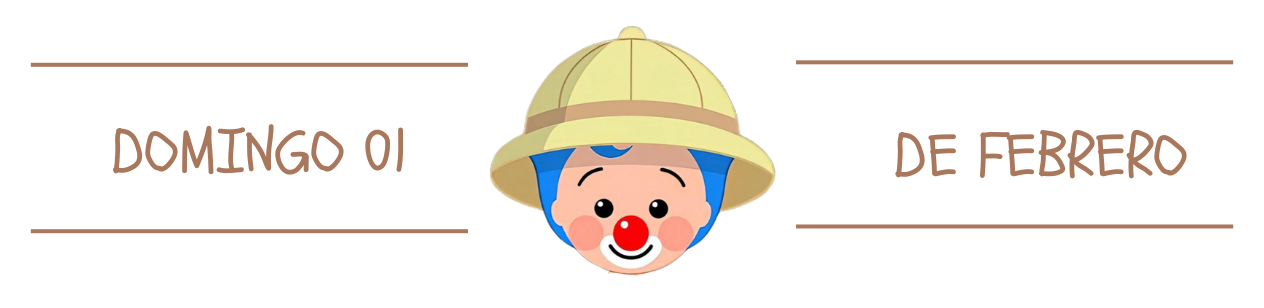
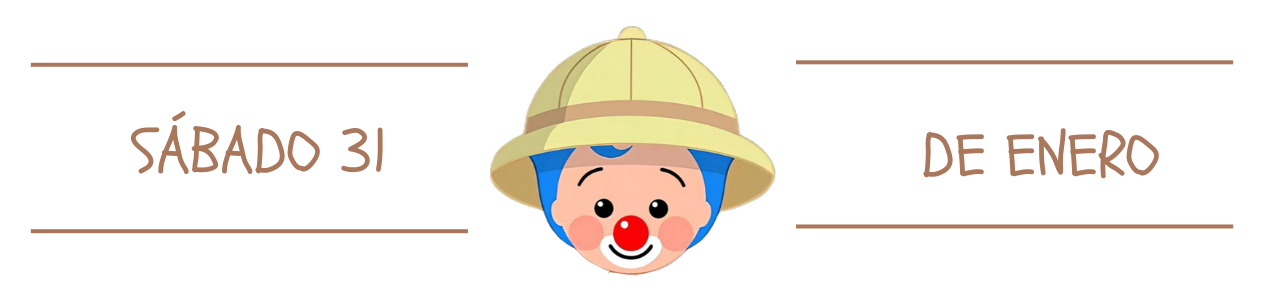
A
A

Changed region(s): [[0.7097, 0.4091, 0.9565, 0.5844], [0.0926, 0.4091, 0.3394, 0.5844], [0.1234, 0.3506, 0.1543, 0.3799]]

diff --git a/index.html b/index.html
@@ -40,7 +40,7 @@
    
     <div class="segundo"> 
       <p data-aos="fade-up"> TE ESPERO PARA FESTEJAR <br> MI PRIMER AÑITO <br><br>
-        🎉 01 DE FEBRERO<br>⏰ DE 10:30 A 18 HS <br> 📍RODIZIO CAMPO LUJAN” <br> AV. PRES. RAÚL ALFONSIN 2599 - LUJAN
+        🎉 31 DE ENERO<br>⏰ DE 10:30 A 18 HS <br> 📍RODIZIO CAMPO LUJAN” <br> AV. PRES. RAÚL ALFONSIN 2599 - LUJAN
  <br> <br>  HACE CLICK PARA SABER COMO LLEGAR</p>
       <a  data-aos="fade-up" class="boton2" target="_blank"  href="https://www.google.com/maps/dir//Av.+Pres.+Ra%C3%BAl+R.+Alfons%C3%ADn+2599,+B6700CWS+Luj%C3%A1n,+Provincia+de+Buenos+Aires/@-34.581506,-59.1234973,716m/data=!3m1!1e3!4m17!1m7!3m6!1s0x95bc7d99164d4005:0x4d3cbc64544b91e!2sAv.+Pres.+Ra%C3%BAl+R.+Alfons%C3%ADn+2599,+B6700CWS+Luj%C3%A1n,+Provincia+de+Buenos+Aires!3b1!8m2!3d-34.581506!4d-59.1234973!4m8!1m0!1m5!1m1!1s0x95bc7d99164d4005:0x4d3cbc64544b91e!2m2!1d-59.1234973!2d-34.581506!3e0?entry=ttu&g_ep=EgoyMDI1MTExMS4wIKXMDSoASAFQAw%3D%3D">CÓMO LLEGAR</a>    
   </div>
@@ -80,7 +80,7 @@
           </div>
           <div>
             <h2 data-aos="fade-up" >FEDERICO</h2>
-            <H3 data-aos="fade-up">01.02.26</H3>
+            <H3 data-aos="fade-up">31.01.26</H3>
           </div>
           <div>
             <img class="espejo" src="./figuras/icon-1.png" alt="">

diff --git a/countdown.js b/countdown.js
@@ -30,4 +30,4 @@ const countdown = (deadline, elem, finalMessage ) => {
 };
 
 
-countdown('FEB 01 2026 10:30:51 GMT-0300', 'clock', 'llego el dia')
+countdown('JAN 31 2026 10:30:51 GMT-0300', 'clock', 'llego el dia')
